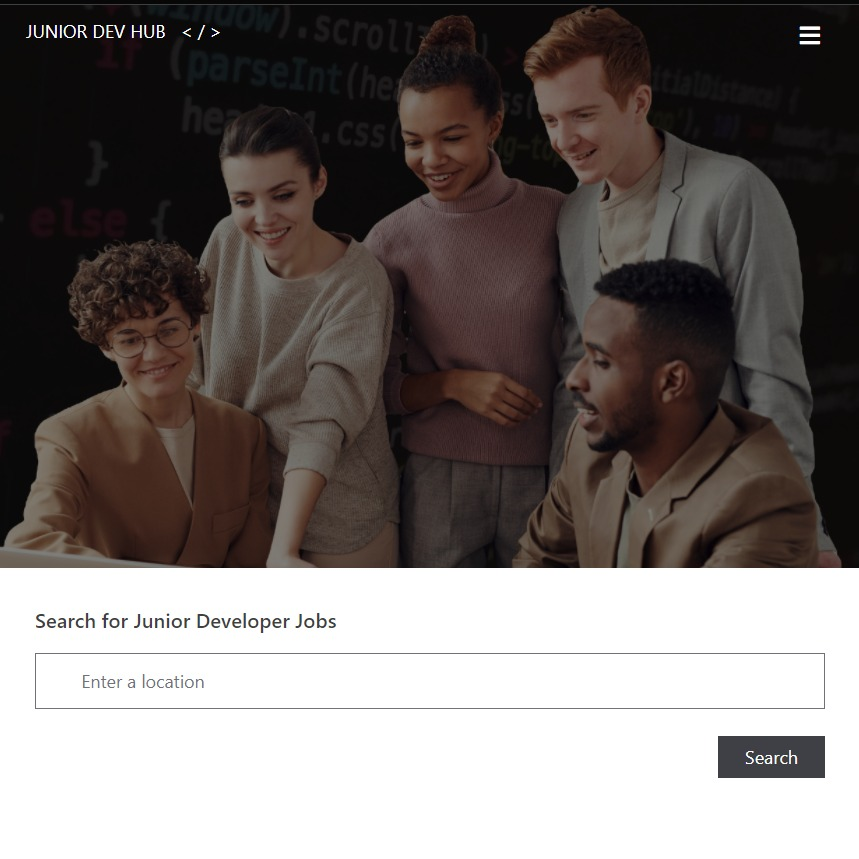
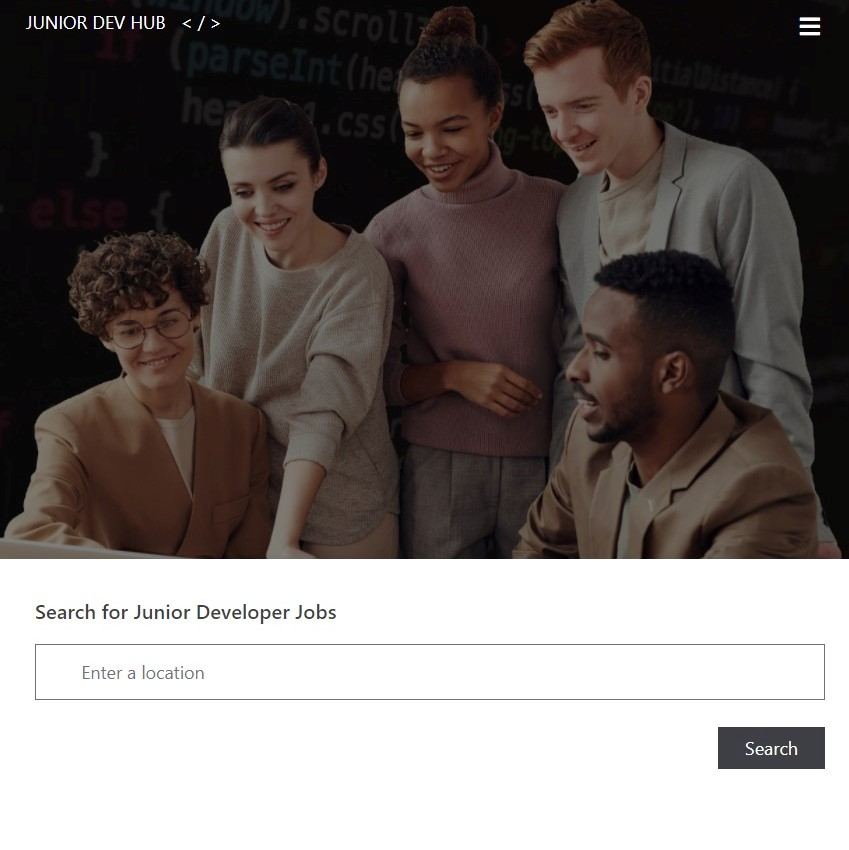
Adding in carousel, sizing

diff --git a/script.js b/script.js
@@ -8,105 +8,3 @@ function toggleButton() {
 
 hamburgerButton.addEventListener('click', toggleButton)
 
-
-
-class Slider {
-    constructor(sliderElem) {
-        this.slider = sliderElem;
-        this.sliderItems = sliderElem.getElementsByClassName("slider-item");
-        this.indicators = sliderElem.getElementsByClassName("slide-indicator");
-        this.nextBtn = sliderElem.querySelector(".slider-control-next");
-        this.prevBtn = sliderElem.querySelector(".slider-control-prev");
-        this.currentIndex = 0;
-        this.prevItemIndex = this.sliderItems.length - 1;
-        this.nextItemIndex = 1;
-        this.isSliding = false;
-        
-        // Set Item Indexs if active class is specified on an element other than the first.
-        for (let i = 0; i < this.sliderItems.length; i++) {
-            if (this.sliderItems[i].classList.contains("active")){
-                this.currentIndex = i;
-                if (i + 1 === this.sliderItems.length) {
-                    this.nextItemIndex = 0;
-                }
-                this.nextItemIndex = i + 1;
-                if (i !== 0) {
-                    this.prevItemIndex = i - 1;
-                }
-                break;
-            }
-        }
-        this.setEventListeners();
-        this.indicators[this.currentIndex].classList.add("active");
-    }
-    setEventListeners() {
-        this.prevBtn.addEventListener("click", () => {
-            this.prev();
-        });
-        this.nextBtn.addEventListener("click", () => {
-            this.next();
-        });
-    }
-    setIndices(direction) { 
-        let index;
-        if (direction === "NEXT") {
-            index = this.currentIndex === this.sliderItems.length - 1 ? 0 : this.currentIndex + 1;
-        } 
-        if (direction === "PREV") {
-            index = this.currentIndex === 0 ? this.sliderItems.length - 1 : this.currentIndex - 1;
-        }
-        if (index === 0) {
-            this.currentIndex = index;
-            this.nextItemIndex = index + 1;
-            this.prevItemIndex = this.sliderItems.length - 1;
-        } else if (index === this.sliderItems.length - 1) {
-            this.currentIndex = this.sliderItems.length - 1;
-            this.nextItemIndex = 0;
-            this.prevItemIndex = this.currentIndex - 1;
-        } else {
-            this.currentIndex = index;
-            this.nextItemIndex = index + 1;
-            this.prevItemIndex = index - 1;
-        }
-    }
-    next() {
-        if (this.isSliding) return;
-        this.isSliding = !this.isSliding;
-        this.sliderItems[this.nextItemIndex].classList.add("next-item");
-        setTimeout(() => {
-            this.sliderItems[this.currentIndex].classList.add("slide-next");
-            this.sliderItems[this.nextItemIndex].classList.add("slide-end");
-            this.sliderItems[this.nextItemIndex].classList.add("active");
-        }, 20);
-        setTimeout(() => {
-            this.sliderItems[this.nextItemIndex].classList.remove("next-item", "slide-end");
-            this.sliderItems[this.currentIndex].classList.remove("slide-next", "active");
-            this.indicators[this.currentIndex].classList.remove("active");
-            this.indicators[this.nextItemIndex].classList.add("active");
-            this.setIndices("NEXT");
-            this.isSliding = false;
-        }, 400);
-    }
-    prev() {
-        if (this.isSliding) return;
-        this.isSliding = !this.isSliding;
-        this.sliderItems[this.prevItemIndex].classList.add("prev-item");
-        setTimeout(() => {
-            this.sliderItems[this.currentIndex].classList.add("slide-prev");
-            this.sliderItems[this.prevItemIndex].classList.add("slide-end");
-            this.sliderItems[this.prevItemIndex].classList.add("active");
-        }, 20);
-        setTimeout(() =>  {
-            this.sliderItems[this.prevItemIndex].classList.remove("prev-item", "slide-end");
-            this.sliderItems[this.currentIndex].classList.remove("slide-prev", "active");
-            this.indicators[this.currentIndex].classList.remove("active");
-            this.indicators[this.prevItemIndex].classList.add("active");
-            this.setIndices("PREV");
-            this.isSliding = false;
-        }, 400);
-    }
-}
-
-const slider = new Slider(
-    document.querySelector(".slider")
-);

diff --git a/style.css b/style.css
@@ -131,117 +131,84 @@ color:white;
   }
   
 
-  .carousel-section {
-    display: flex;
-    align-items: center;
-    justify-content: center;
-    height: 100%;
-    width:100%;
-}
-.carousel-container {
-    width: 100%;
-    height: 100%;
-    justify-content: center;
-    display:flex;
-    align-items: center;
+.carousel {
+  background: rgb(255, 255, 255);
 }
 
-.carousel-image {
-
-    width: 50%;
-    height: 80%;
-    display: flex;
-    justify-content: inherit;
-    margin-left:55vh;
-}
-.slider {
-    height: 120vh;
-    width: 225vh;
-    overflow: hidden;
-    position: relative;
-}
-
-.slider .slider-item {
-    height: 100%;
-    width: 100%;
-    display: none;
-    justify-content: center;
-    position: absolute;
-    transition: transform 400ms;
+.carousel-cell {
+  width: 70%;
+  height: 200px;
+  
+  /* flex-box, center image in cell */
+  display: -webkit-box;
+  display: -webkit-flex;
+  display:         flex;
+  -webkit-box-pack: center;
+  -webkit-justify-content: center;
+          justify-content: center;
+  -webkit-align-items: center;
+          align-items: center;
 }
 
-.slider .slider-item.active,
-.slider .slider-item.prev-item,
-.slider .slider-item.next-item {
-    display: block;
+.carousel-cell img {
+  display: block;
+  max-width: 100%;
+  max-height: 100%;
+  /* dim unselected */
+  opacity: 0.7;
+  -webkit-transform: scale(0.85);
+          transform: scale(0.85);
+
+  -webkit-transition: opacity 0.3s, -webkit-transform 0.3s, transform 0.3s, -webkit-filter 0.3s, filter 0.3s;
+          transition: opacity 0.3s, transform 0.3s, filter 0.3s;
 }
 
-.slider-item.prev-item,
-.slider-item.active.slide-next {
-    transform: translateX(-100%);
+/* brighten selected image */
+.carousel-cell.is-selected img {
+  opacity: 1;
+  -webkit-transform: scale(1);
+          transform: scale(1);
+  -webkit-filter: none;
+          filter: none;
 }
 
-.slider-item.active.slide-prev,
-.slider-item.next-item {
-    transform: translateX(100%);
+@media screen and ( min-width: 768px ) {
+  .carousel-cell {
+    height: 400px;
+  }
 }
 
-.slider-item.prev-item.slide-end,
-.slider-item.next-item.slide-end {
-    transform: translateX(0);
+@media screen and ( min-width: 960px ) {
+  .carousel-cell {
+    width: 40%;
+  }
 }
 
-.slide-indicators {
-    position: absolute;
-    z-index: 20;
-    bottom: 0;
-    left: 50%;
-    transform: translateX(-50%);
-    list-style: none;
-    padding: 0;
-    display: flex;
+/* buttons, no circle */
+.flickity-prev-next-button {
+  width: 60px;
+  height: 60px;
+  background: transparent;
+  opacity: 0.6;
 }
-
-.slider-control-prev,
-.slider-control-next {
-    position: absolute;
-    z-index: 20;
-    cursor: pointer;
-    top: 50%;
-    transform: translateY(-50%);
-    opacity: 0.3;
-    transition: opacity 300ms;
+.flickity-prev-next-button:hover {
+  background: transparent;
+  opacity: 1;
 }
-
-.slider-control-prev {
-    left: 20px;
+/* arrow color */
+.flickity-prev-next-button .arrow {
+  fill: white;
 }
-
-.slider-control-prev:hover {
-    opacity: 1;
+.flickity-prev-next-button.no-svg {
+  color: white;
 }
-
-.slider-control-next {
-    right: 20px;
+/* closer to edge */
+.flickity-prev-next-button.previous { left: 0; }
+.flickity-prev-next-button.next { right: 0; }
+/* hide disabled button */
+.flickity-prev-next-button:disabled {
+  display: none;
 }
-
-.slider-control-next:hover {
-    opacity: 1;
-}
-
-.slide-indicator {
-    height: 12px;
-    width: 12px;
-    border-radius: 50%;
-    background: #ffffff;
-    opacity: 0.5;
-    margin: 0 8px;
-}
-
-.slide-indicator.active {
-    opacity: 1;
-}
-
 
 
 .logo {
@@ -434,3 +401,4 @@ only screen and (min-device-pixel-ratio: 1.5){
     }
 
 
+}

diff --git a/index.html b/index.html
@@ -7,9 +7,8 @@
     <!--Adds a description when listed in google searches-->
     <meta name="description" content="Sarah Lloyd - Portfolio">
     <!-- Links to CSS Files -->
-    
-    <script src="https://kit.fontawesome.com/761e4c8e5c.js" crossorigin="anonymous"></script>
     <link rel= "stylesheet" href="reset.css">
+    <link rel="stylesheet" href="https://npmcdn.com/flickity@2/dist/flickity.css" media="screen">
     <link rel= "stylesheet" href="style.css">
 
     <title>Portfolio</title>
@@ -66,33 +65,28 @@
     <h2> Latest Project </h2>
     <p> Junior Dev Hub<br> <br></p> 
     
+    
 <!-- Carousel -->
 
-  <div class="carousel-container">
-      <div class="slider">
-          <div class="slider-item" style="background-color: rgb(255, 255, 255);"></div>
-          <div class="slider-item active" style="background-color: rgb(255, 255, 255);"></div>
-          <div class="slider-item" style="background-color: rgb(255, 255, 255);"></div>
-          <div class="slider-item" style="background-color:rgb(255, 255, 255);">
-          <img class="carousel-image" src="Images/project1.jpg"> <a href="https://github.com/LanguageBytes/Junior-Dev-Job-Search-Engine"></a></div>
-          <div class="slider-item" style="background-color:rgb(255, 255, 255);"></div>
-          <ol class="slide-indicators">
-              <li class="slide-indicator"></li>
-              <li class="slide-indicator"></li>
-              <li class="slide-indicator"></li>
-              <li class="slide-indicator"></li>
-              <li class="slide-indicator"></li>
-          </ol>
-          <span class="slider-control-prev" role="button">
-              <img aria-hidden="true" src="Images/prev.svg" alt="Previous Slide Button">
-          </span>
-          <span class="slider-control-next" role="button">
-              <img aria-hidden="true" src="images/next.svg" alt="Next Slide Button">
-          </span>
-      </div>
+<!-- Flickity HTML init -->
+
+<div class="carousel js-flickity">
+  <div class="carousel-cell">
+    <img src="Images/project1img.jpg" alt="" />
   </div>
+  <div class="carousel-cell">
+    <img src="Images/techHirers.png" alt="" />
+  </div>
+  <div class="carousel-cell">
+    <img src="Images/results-page.png" alt="" />
+  </div>
+  <div class="carousel-cell">
+    <img src="Images/desc.jpg" />
+  </div>
+
 </section>
 
+<!-- Portfolio -->
 <section>
   
    <h2> Portfolio </h2>
@@ -113,5 +107,7 @@
   </p>
   </footer>
 </div>
+<script src="https://npmcdn.com/flickity@2/dist/flickity.pkgd.js"></script>
   <script src="script.js"></script>
+  <script src="https://kit.fontawesome.com/761e4c8e5c.js" crossorigin="anonymous"></script>
 </body>
